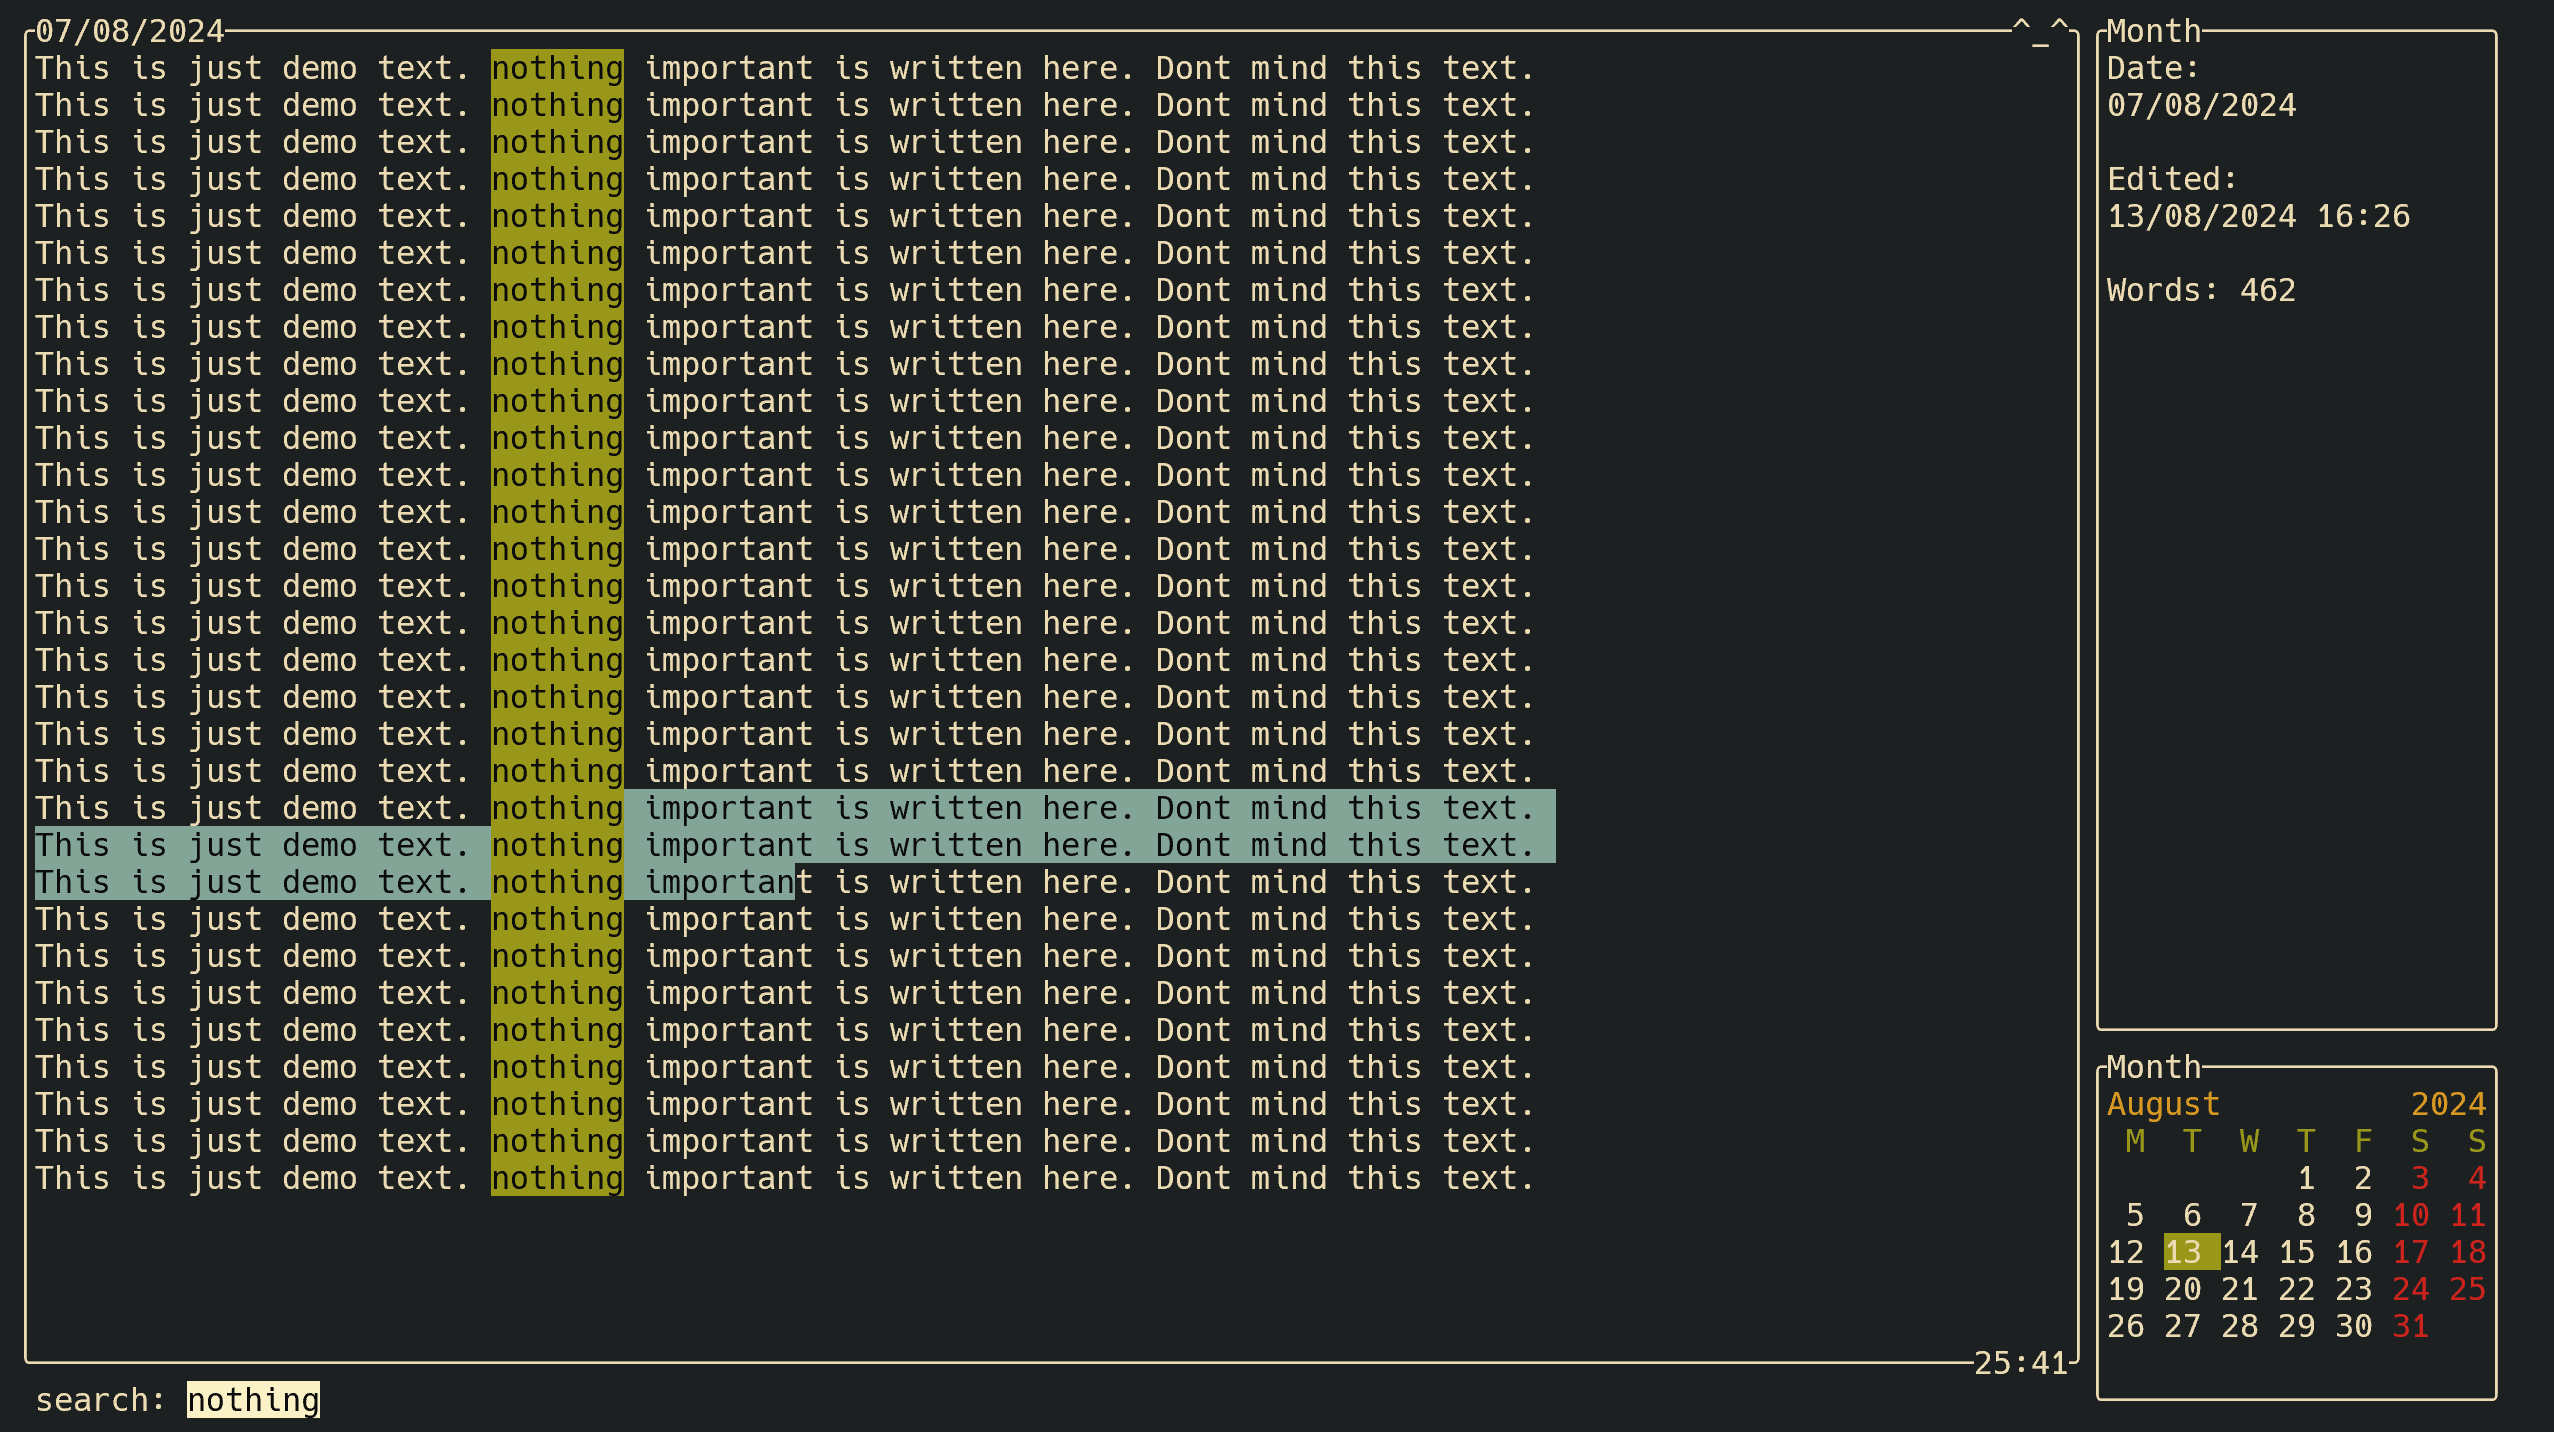
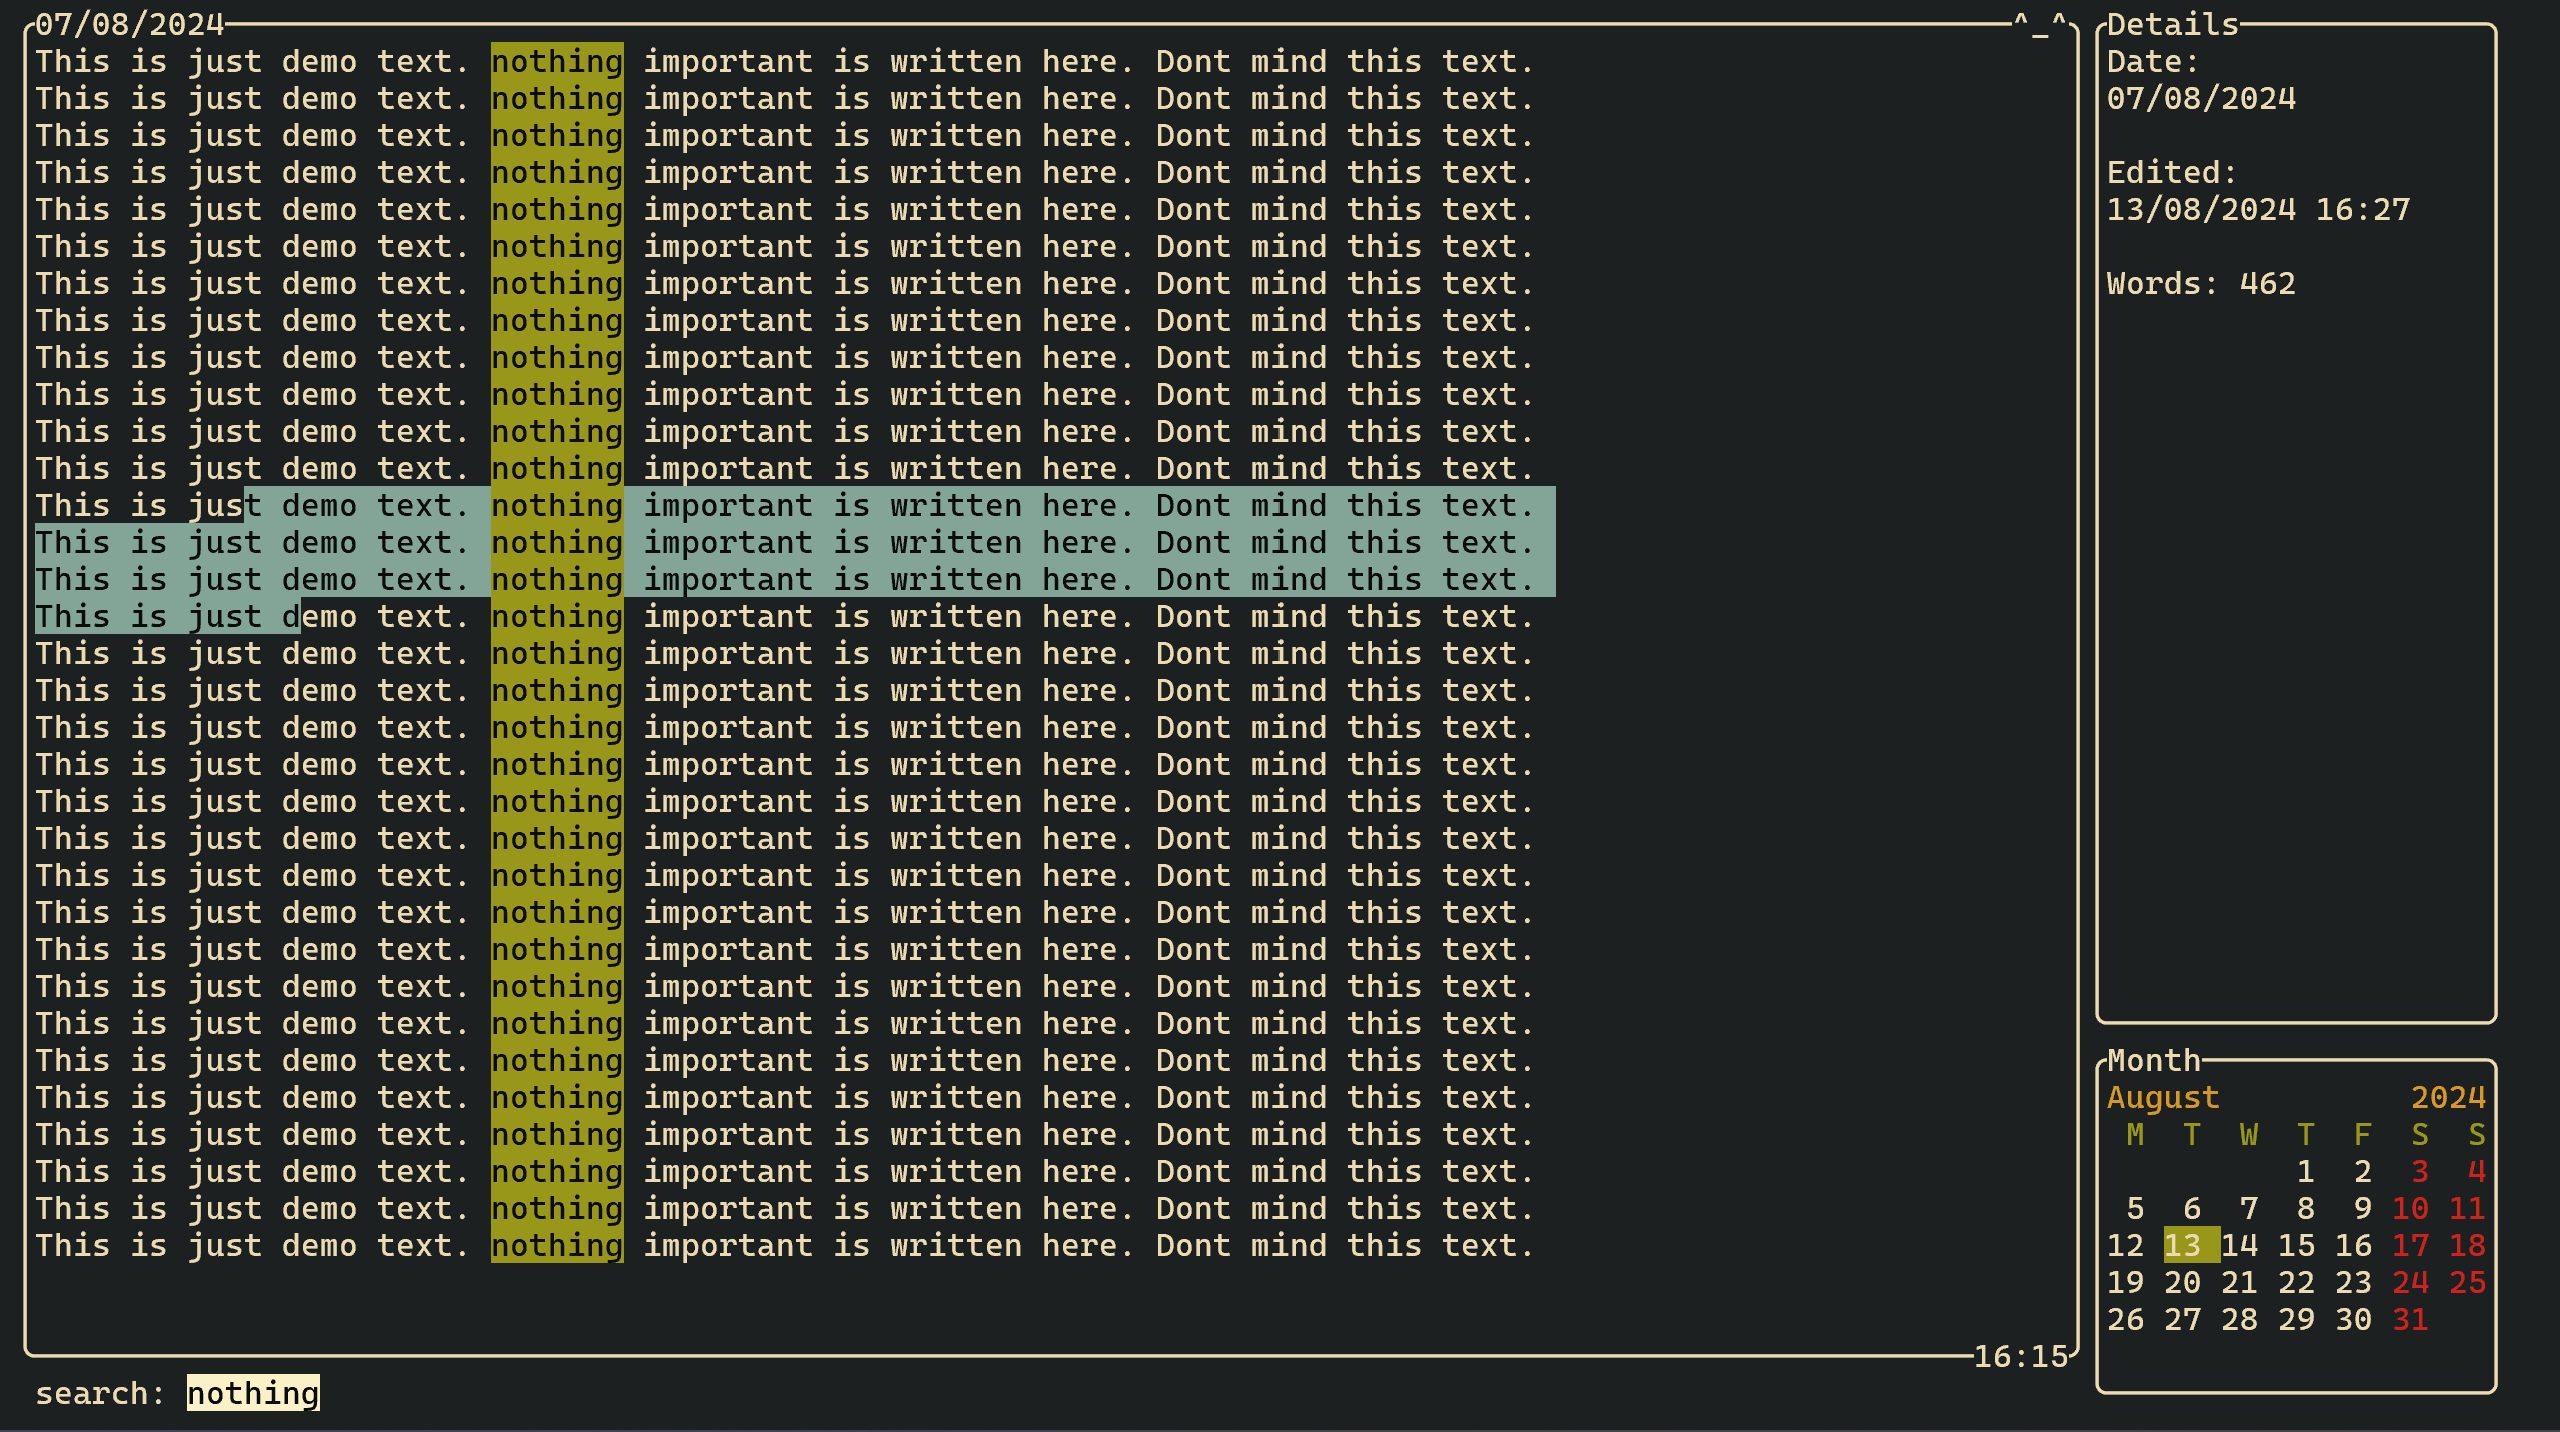
minor fix

Changed region(s): [[0.0, 0.0, 0.9898, 1.0]]

diff --git a/src/ui/side_details.rs b/src/ui/side_details.rs
@@ -17,7 +17,7 @@ pub fn draw_side_details(
     let block = Block::default()
         .borders(Borders::ALL)
         .border_set(border::ROUNDED)
-        .title("Month")
+        .title("Details")
         .title_alignment(Alignment::Left);
 
     let lines = vec![
